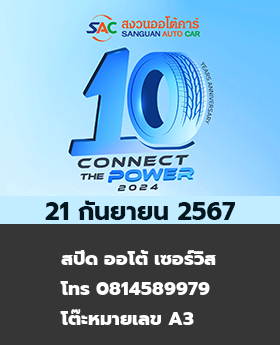
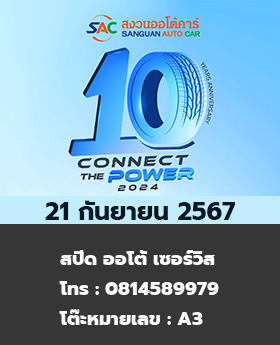
update

diff --git a/page/search.php b/page/search.php
@@ -18,9 +18,8 @@ if (isset($_POST['query'])) {
 
             // ข้อความที่ต้องการแสดงบนรูปภาพ
             $text = $row['ar_name'] . "\n\r";
-            $text .= "โทร " . $row['phone'] . "\n\r";
-            $text .= "โต๊ะหมายเลข " . $row['table_number'];
-
+            $text .= "โทร : " . $row['phone'] . "\n\r";
+            $text .= "โต๊ะหมายเลข : " . $row['table_number'];
             include 'gen_text_img.php';
             echo '<div><img src="' . $outputFile . '" alt="' . basename($outputFile) . '" style="max-width:100%; height:auto;"/></div>';
 
